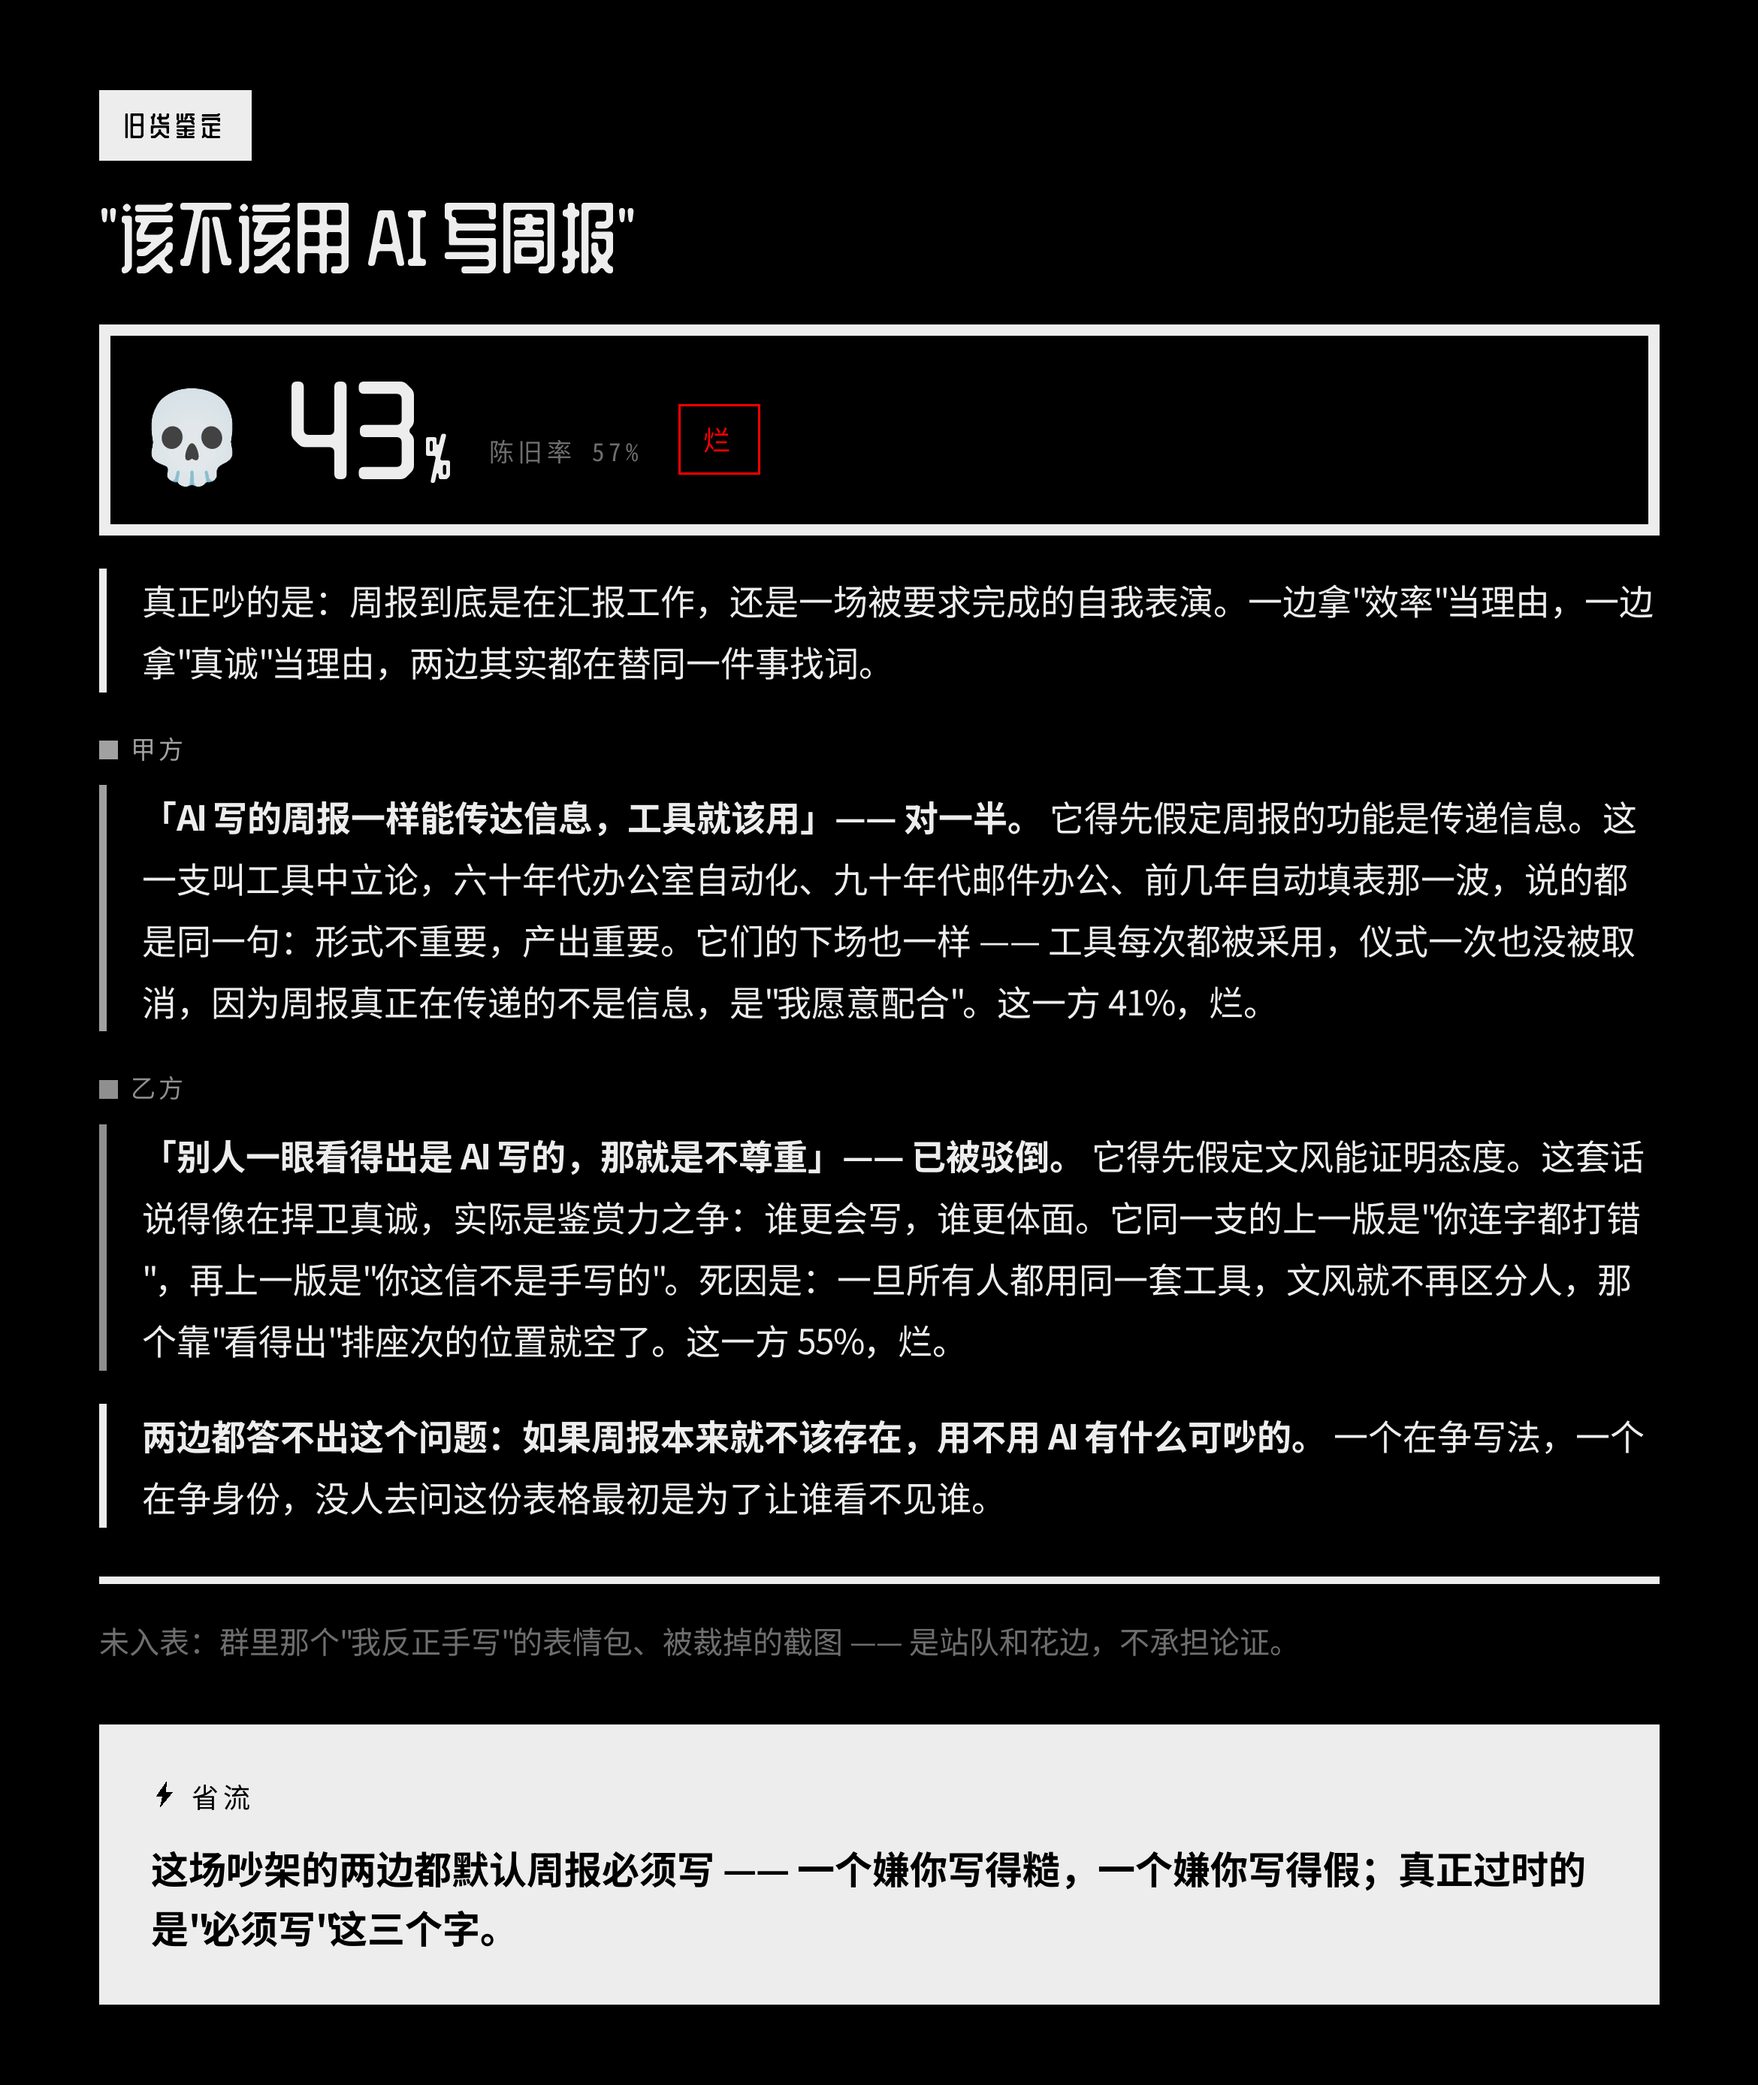
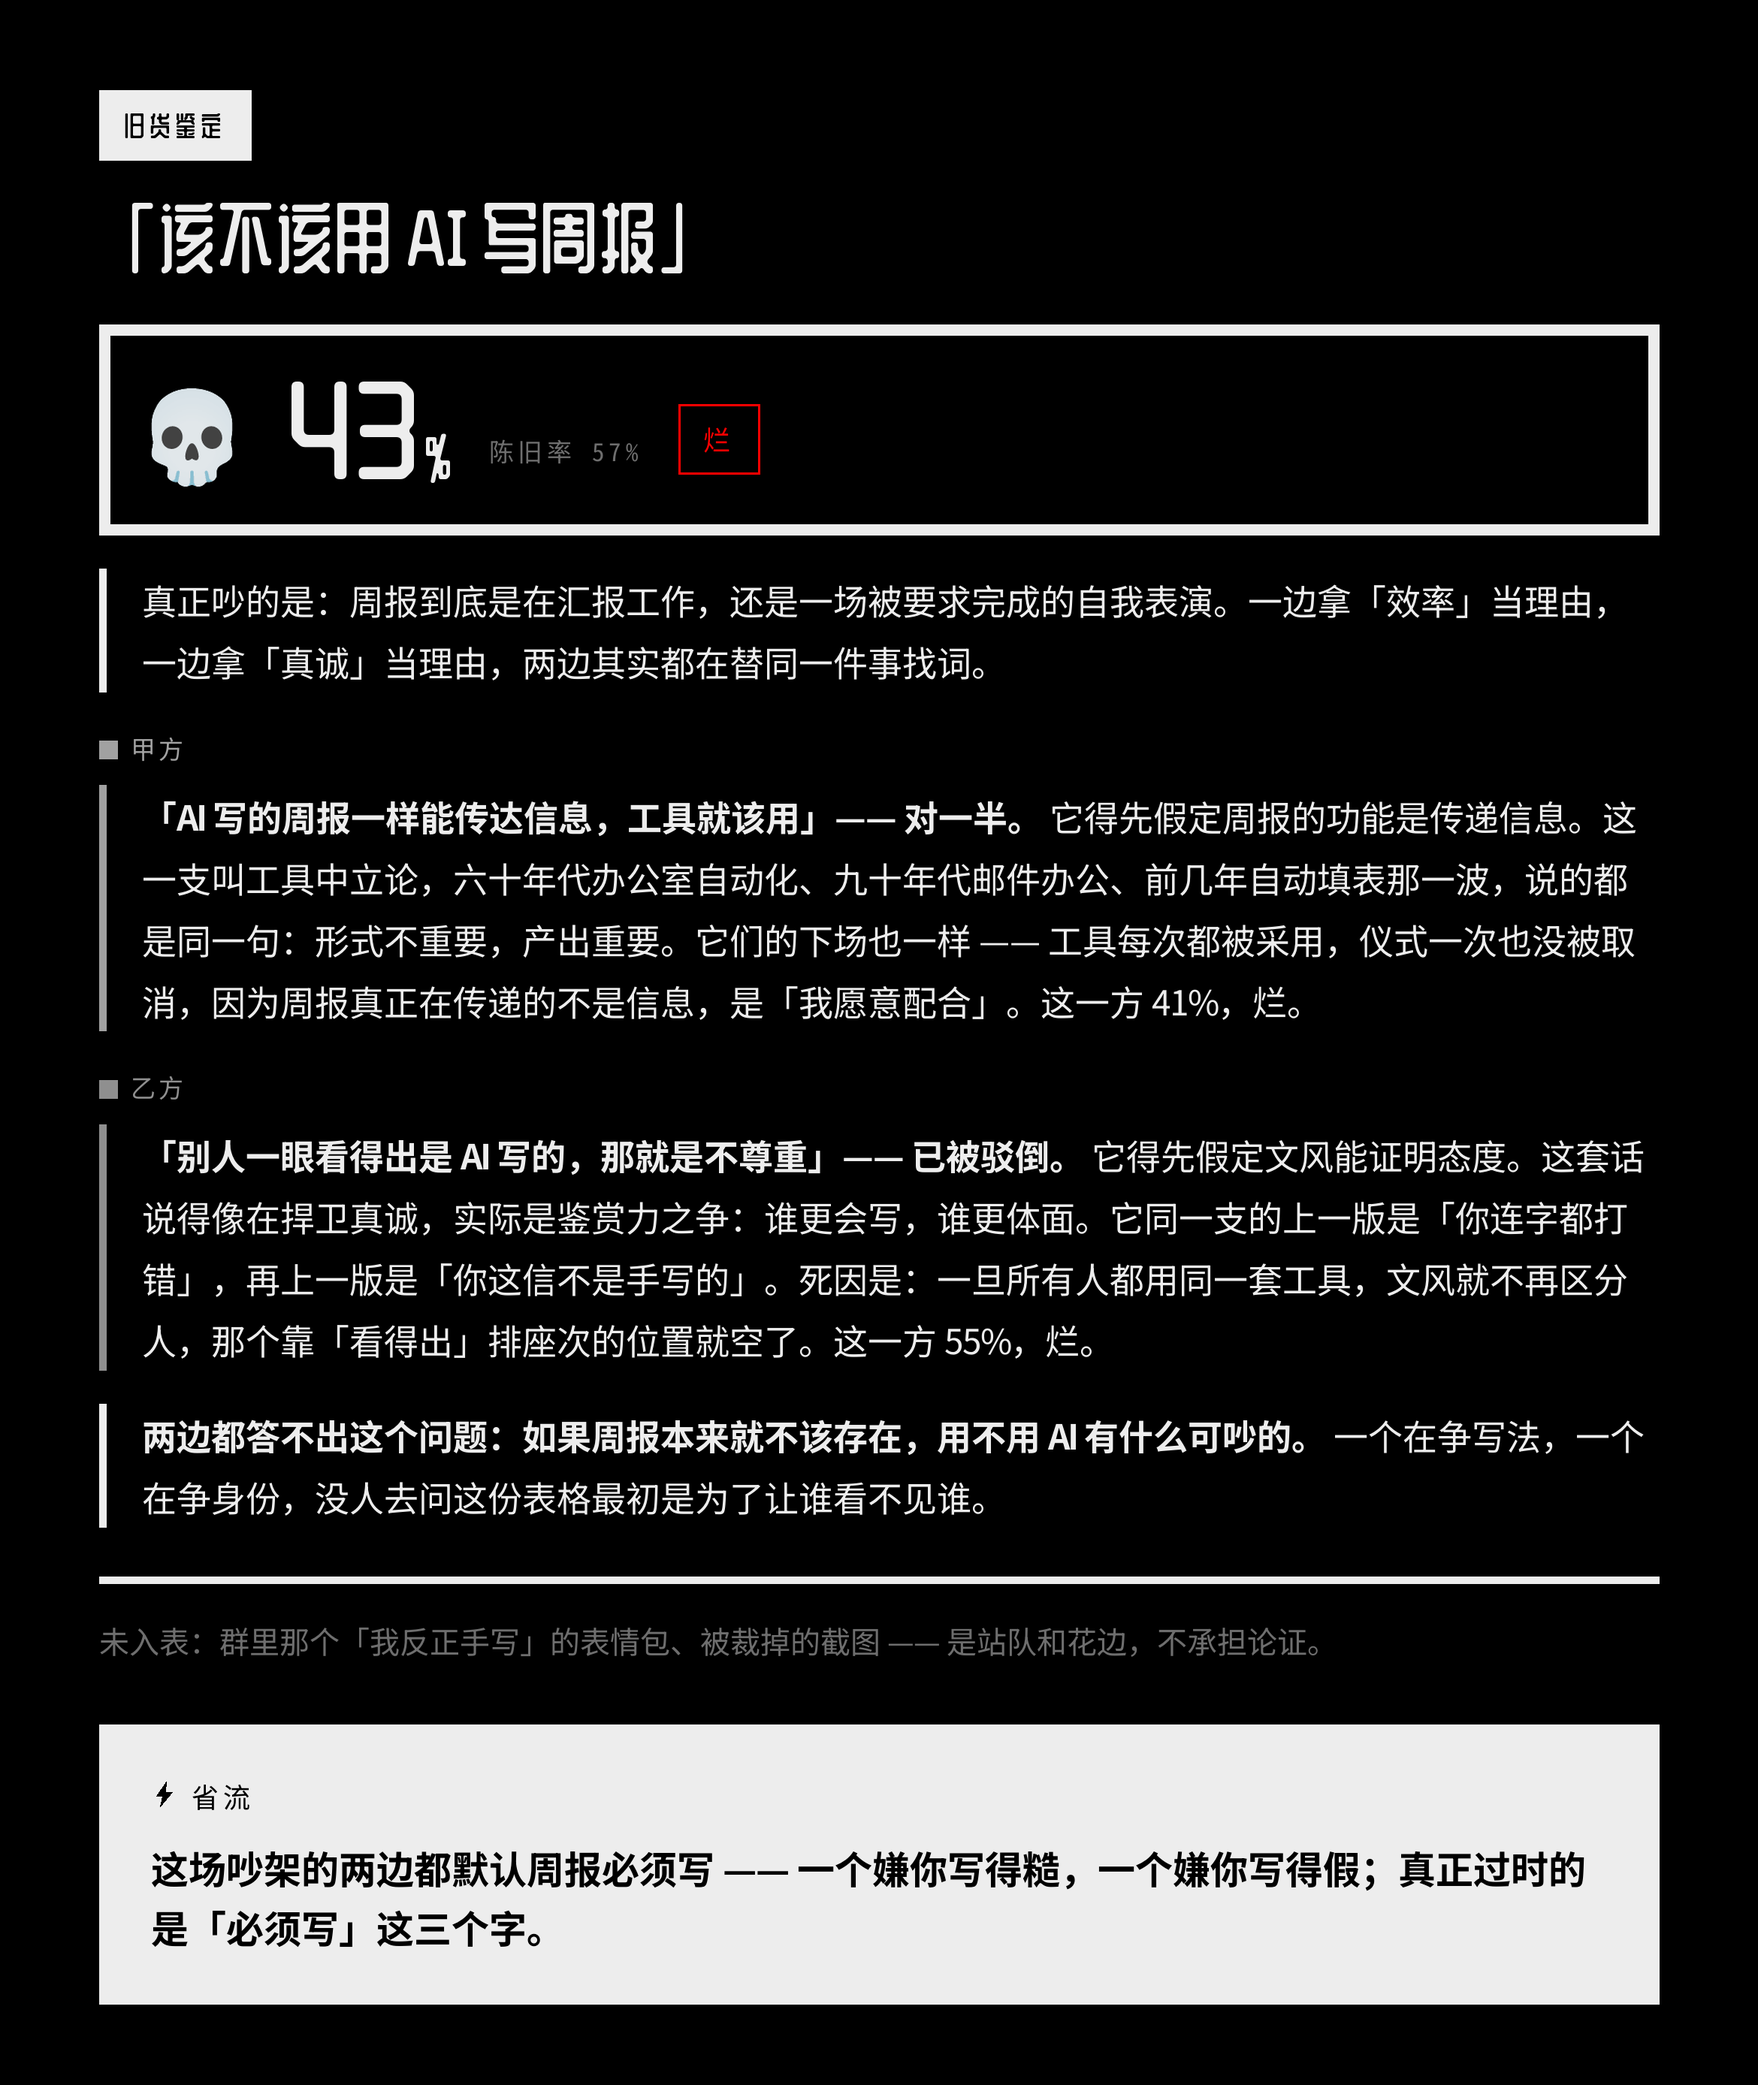
examples: 示例报告改用中文引号（）

diff --git a/examples/example-report.md b/examples/example-report.md
@@ -1,15 +1,15 @@
-# 旧货鉴定 · "该不该用 AI 写周报"
+# 旧货鉴定 · 「该不该用 AI 写周报」
 
 **新鲜度 43%（陈旧率 57%）烂**
 
-真正吵的是：周报到底是在汇报工作，还是一场被要求完成的自我表演。一边拿"效率"当理由，一边拿"真诚"当理由，两边其实都在替同一件事找词。
+真正吵的是：周报到底是在汇报工作，还是一场被要求完成的自我表演。一边拿「效率」当理由，一边拿「真诚」当理由，两边其实都在替同一件事找词。
 
-[甲方] **「AI 写的周报一样能传达信息，工具就该用」—— 对一半。** 它得先假定周报的功能是传递信息。这一支叫工具中立论，六十年代办公室自动化、九十年代邮件办公、前几年自动填表那一波，说的都是同一句：形式不重要，产出重要。它们的下场也一样 —— 工具每次都被采用，仪式一次也没被取消，因为周报真正在传递的不是信息，是"我愿意配合"。这一方 41%，烂。
+[甲方] **「AI 写的周报一样能传达信息，工具就该用」—— 对一半。** 它得先假定周报的功能是传递信息。这一支叫工具中立论，六十年代办公室自动化、九十年代邮件办公、前几年自动填表那一波，说的都是同一句：形式不重要，产出重要。它们的下场也一样 —— 工具每次都被采用，仪式一次也没被取消，因为周报真正在传递的不是信息，是「我愿意配合」。这一方 41%，烂。
 
-[乙方] **「别人一眼看得出是 AI 写的，那就是不尊重」—— 已被驳倒。** 它得先假定文风能证明态度。这套话说得像在捍卫真诚，实际是鉴赏力之争：谁更会写，谁更体面。它同一支的上一版是"你连字都打错"，再上一版是"你这信不是手写的"。死因是：一旦所有人都用同一套工具，文风就不再区分人，那个靠"看得出"排座次的位置就空了。这一方 55%，烂。
+[乙方] **「别人一眼看得出是 AI 写的，那就是不尊重」—— 已被驳倒。** 它得先假定文风能证明态度。这套话说得像在捍卫真诚，实际是鉴赏力之争：谁更会写，谁更体面。它同一支的上一版是「你连字都打错」，再上一版是「你这信不是手写的」。死因是：一旦所有人都用同一套工具，文风就不再区分人，那个靠「看得出」排座次的位置就空了。这一方 55%，烂。
 
 **两边都答不出这个问题：如果周报本来就不该存在，用不用 AI 有什么可吵的。** 一个在争写法，一个在争身份，没人去问这份表格最初是为了让谁看不见谁。
 
-*未入表：群里那个"我反正手写"的表情包、被裁掉的截图 —— 是站队和花边，不承担论证。*
+*未入表：群里那个「我反正手写」的表情包、被裁掉的截图 —— 是站队和花边，不承担论证。*
 
-**省流：这场吵架的两边都默认周报必须写 —— 一个嫌你写得糙，一个嫌你写得假；真正过时的是"必须写"这三个字。**
+**省流：这场吵架的两边都默认周报必须写 —— 一个嫌你写得糙，一个嫌你写得假；真正过时的是「必须写」这三个字。**
